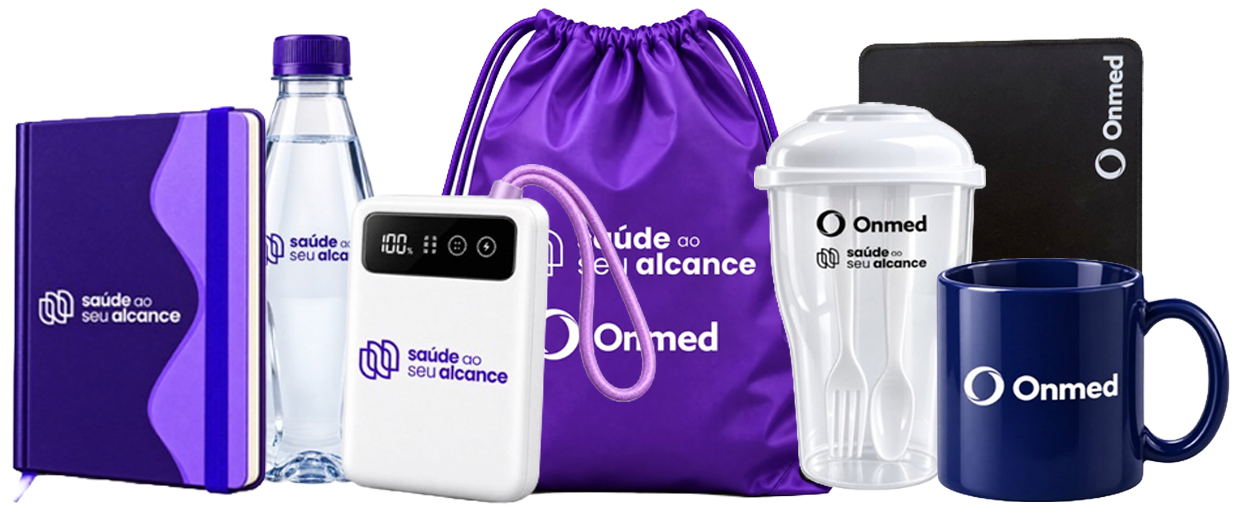
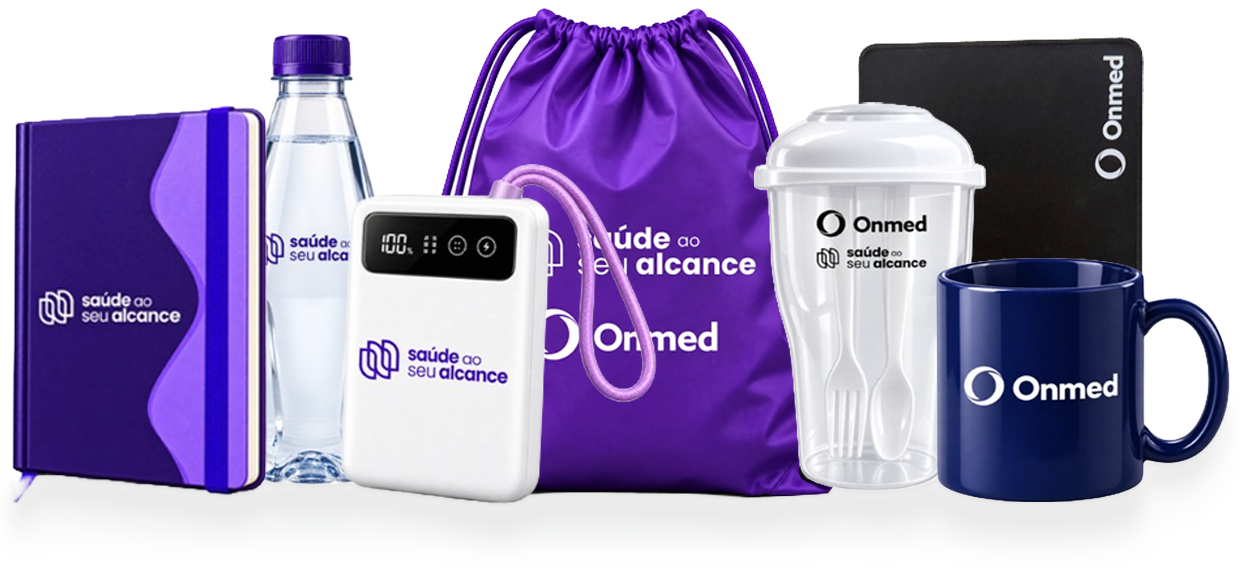
feat: update branding and improve PWA support
- Implement high-resolution SVG favicon and manifest
- Add theme color and browser metadata
- Update kit image asset and responsive dimensions

diff --git a/index.html b/index.html
@@ -53,9 +53,13 @@
     <meta name="twitter:image" content="/assets/hero-cidade.png" />
     <meta name="twitter:image:alt" content="5ª Corrida Mário Penna - Belo Horizonte" />
 
-    <!-- Favicon -->
-    <link rel="icon" type="image/png" href="/assets/logotipo-corrida.png" />
-    <link rel="apple-touch-icon" href="/assets/logotipo-corrida.png" />
+    <!-- Favicon & Identidade Visual de Alta Resolução -->
+    <link rel="icon" type="image/svg+xml" href="/favicon.svg" />
+    <link rel="alternate icon" type="image/png" href="/assets/logotipo-corrida.png" />
+    <link rel="apple-touch-icon" href="/favicon.svg" />
+    <link rel="manifest" href="/site.webmanifest" />
+    <meta name="theme-color" content="#10109B" />
+    <meta name="msapplication-TileColor" content="#10109B" />
 
     <!-- Tipografia Google Fonts: Chakra Petch (Countdown Digital), Montserrat & Plus Jakarta Sans -->
     <link rel="preconnect" href="https://fonts.googleapis.com" />
@@ -816,11 +820,11 @@
             <div class="kit-showcase__products">
               <!-- Imagem Oficial do Kit: /assets/kit.png -->
               <img
-                src="/assets/kit.png"
+                src="/assets/kit.png?v=3"
                 alt="Kit Cuidar de Você composto por itens e brindes exclusivos"
                 class="kit-products-img"
                 width="680"
-                height="290"
+                height="316"
                 loading="lazy"
                 referrerpolicy="no-referrer"
               />

diff --git a/admin/index.html b/admin/index.html
@@ -9,9 +9,12 @@
       content="Relatório técnico e executivo de desenvolvimento da landing page oficial da 5ª Corrida Mário Penna."
     />
     <meta name="robots" content="noindex, nofollow" />
-    <!-- Favicon -->
-    <link rel="icon" type="image/png" href="/assets/logotipo-corrida.png" />
-    <link rel="apple-touch-icon" href="/assets/logotipo-corrida.png" />
+    <!-- Favicon & Identidade Visual de Alta Resolução -->
+    <link rel="icon" type="image/svg+xml" href="/favicon.svg" />
+    <link rel="alternate icon" type="image/png" href="/assets/logotipo-corrida.png" />
+    <link rel="apple-touch-icon" href="/favicon.svg" />
+    <link rel="manifest" href="/site.webmanifest" />
+    <meta name="theme-color" content="#070928" />
     <link rel="preconnect" href="https://fonts.googleapis.com" />
     <link rel="preconnect" href="https://fonts.gstatic.com" crossorigin />
     <link
